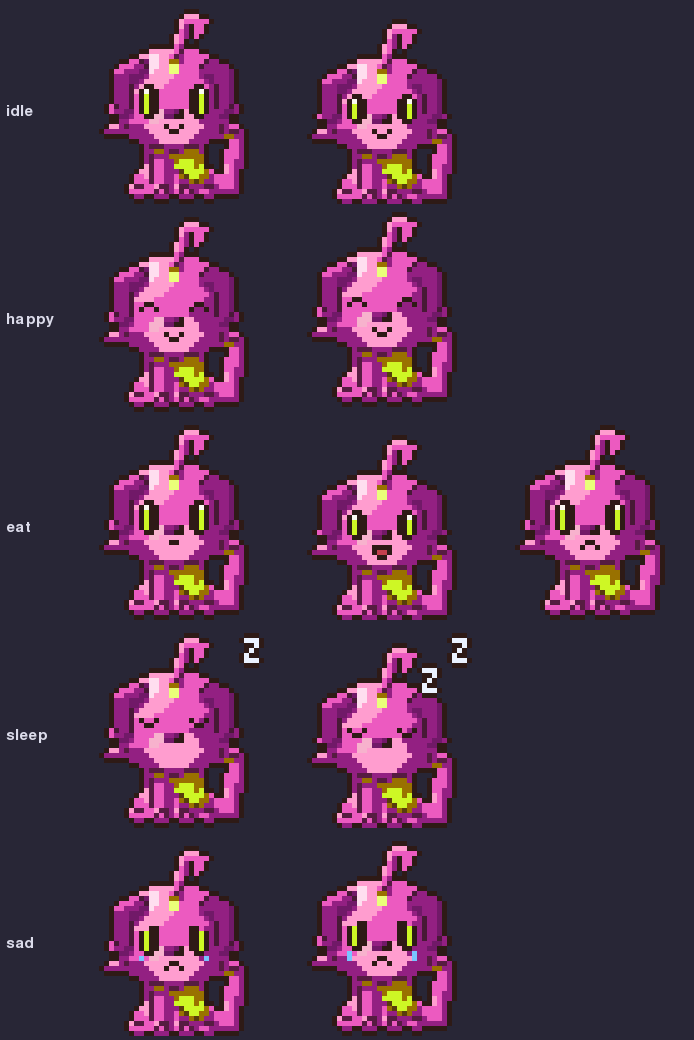
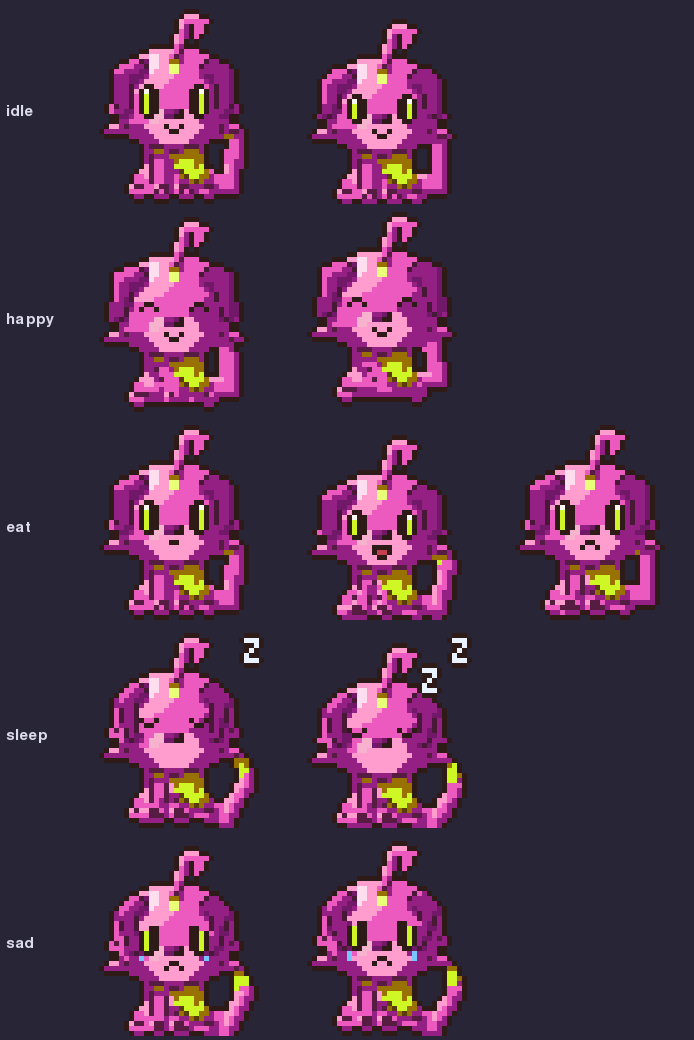
docs(m14): showcase, walk GIF, README and v0.14.0

diff --git a/README.md b/README.md
@@ -217,6 +217,10 @@ Todos os sprites são **procedurais e originais**, no estilo V-Pet: contorno esc
 
 ![Quadros de idle, happy, eat, sleep e sad](docs/images/anims.png)
 
+- **Membros animados:** pernas, braços, caudas, asas, nadadeiras, orelhas e antenas giram em torno da junta, em poses próprias por família e plano (`walk` alterna as pernas; `happy` levanta os braços ou asas; `sleep` recolhe os membros). Ovo, `sick`, `evolve` e `dead` ficam em repouso, como antes (salvo o dragão quadrúpede adulto, que ficou mais leve de propósito); a cauda cai em `old`. Exemplo de `walk`, quatro famílias adultas:
+
+![Caminhada (walk) de quatro famílias adultas](docs/images/walk.gif)
+
 O gerador mora em `engrama/app/art/vpet/`. Para regenerar as imagens: `SDL_VIDEODRIVER=dummy python -m spike.vpet2.showcase` (usa a API do app e grava em `docs/images/`); folhas de revisão: `python -m spike.vpet2.sheets <pasta>`. Detalhes e limitações no [README da arte](spike/vpet2/README.md).
 
 ## Para desenvolvedores
@@ -324,6 +328,7 @@ O bench mede o estado estável (primeiro uso já respondido, todas as permissõe
 | M10 | Experimentos de ML como receitas opcionais + relatório | feito |
 | M11 | Arte V-Pet coesa: 8 famílias × 3 planos, ovos da família, acessórios que acumulam | feito |
 | M12 | Saúde do projeto: CI Linux/Windows, lint, testes paralelos, divisão dos arquivos grandes, bench no Wayland | feito |
+| M14 | Animação de membros e poses por família (pernas, braços, caudas, asas, nadadeiras) | feito |
 
 **Limitações conhecidas**
 
@@ -331,15 +336,13 @@ O bench mede o estado estável (primeiro uso já respondido, todas as permissõe
 - Sem calibração com modelo real: os limiares da busca por significado (`SEM_MIN_SIM`, `FACT_MIN_SIM`, `TOPIC_MIN_SIM`) estão nos valores iniciais do plano.
 - Overlay não funciona em Wayland (só X11 e Windows).
 - No Wayland, KDE e GNOME não expõem app em foco/título/tela cheia à percepção.
-- A arte não tem animação de membros (só transformações do sprite inteiro e troca de rosto); o dragão quadrúpede adulto ainda é o desenho mais carregado.
 - Os experimentos de ML não foram promovidos: o padrão continua sendo `default-v1`.
 - O orçamento de 2% de CPU é por núcleo; em notebooks de baixo consumo o número medido pode ser maior que no PC de referência.
 
 **Próximos passos** (ciclo seguinte; detalhes no [roadmap](docs/superpowers/specs/2026-11-04-engrama-m12-m15-roadmap.md))
 
 1. **M13:** calibração com modelos reais (smokes manuais e limiares da busca por significado).
-2. **M14:** animação de membros e poses por família.
-3. **M15:** distribuição: pastas de dados por sistema operacional, builds e início automático.
+2. **M15:** distribuição: pastas de dados por sistema operacional, builds e início automático.
 
 Especificações, planos e relatórios de cada marco: [`docs/superpowers/`](docs/superpowers/).
 
@@ -567,6 +570,10 @@ All sprites are **procedural and original**, in the V-Pet style: 1 px dark outli
 
 ![idle, happy, eat, sleep and sad frames](docs/images/anims.png)
 
+- **Animated limbs:** legs, arms, tails, wings, fins, ears and antennae rotate around their joints, with poses of their own per family and body plan (`walk` alternates the legs; `happy` raises the arms or wings; `sleep` tucks the limbs in). The egg, `sick`, `evolve` and `dead` stay at rest as before (except the adult quadruped dragon, which is lighter on purpose); the tail droops in `old`. Example of `walk`, four adult families:
+
+![Walk cycle of four adult families](docs/images/walk.gif)
+
 The generator lives in `engrama/app/art/vpet/`. To regenerate the images: `SDL_VIDEODRIVER=dummy python -m spike.vpet2.showcase` (uses the app API, writes to `docs/images/`); review sheets: `python -m spike.vpet2.sheets <dir>`. Details and limitations in the [art README](spike/vpet2/README.md) (Portuguese).
 
 ## For developers
@@ -674,6 +681,7 @@ The bench measures the steady state (first run already answered, all permissions
 | M10 | ML experiments as optional recipes + report | done |
 | M11 | Cohesive V-Pet art: 8 families × 3 plans, family eggs, accumulating accessories | done |
 | M12 | Project health: Linux/Windows CI, lint, parallel tests, split of large files, bench on Wayland | done |
+| M14 | Limb animation and per-family poses (legs, arms, tails, wings, fins) | done |
 
 **Known limitations**
 
@@ -681,15 +689,13 @@ The bench measures the steady state (first run already answered, all permissions
 - No calibration with a real model: the semantic-search thresholds (`SEM_MIN_SIM`, `FACT_MIN_SIM`, `TOPIC_MIN_SIM`) are at the plan's initial values.
 - The overlay does not work on Wayland (X11 and Windows only).
 - On Wayland, KDE and GNOME do not expose focused app/title/fullscreen to perception.
-- The art has no limb animation (only whole-sprite transforms and face swaps); the adult quadruped dragon is still the busiest drawing.
 - The ML experiments were not promoted: the default is still `default-v1`.
 - The 2% CPU budget is per core; on low-power laptops the measured number may be higher than on the reference PC.
 
 **Next steps** (next cycle; details in the [roadmap](docs/superpowers/specs/2026-11-04-engrama-m12-m15-roadmap.md))
 
 1. **M13:** calibration with real models (manual smokes and semantic-search thresholds).
-2. **M14:** limb animation and per-family poses.
-3. **M15:** distribution: OS-specific data folders, builds and autostart.
+2. **M15:** distribution: OS-specific data folders, builds and autostart.
 
 Specs, plans and reports of each milestone: [`docs/superpowers/`](docs/superpowers/).
 
